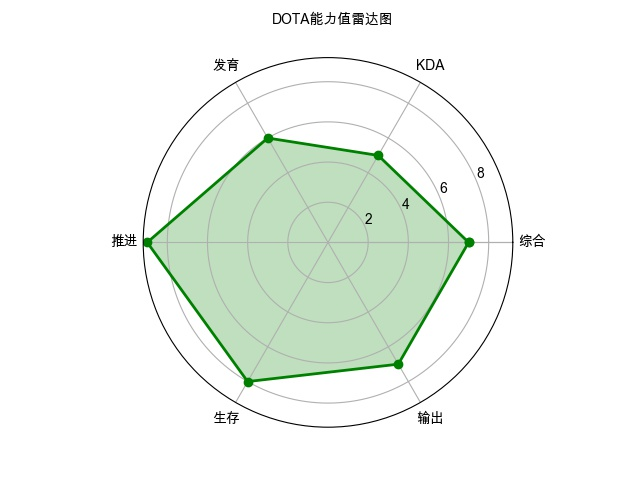
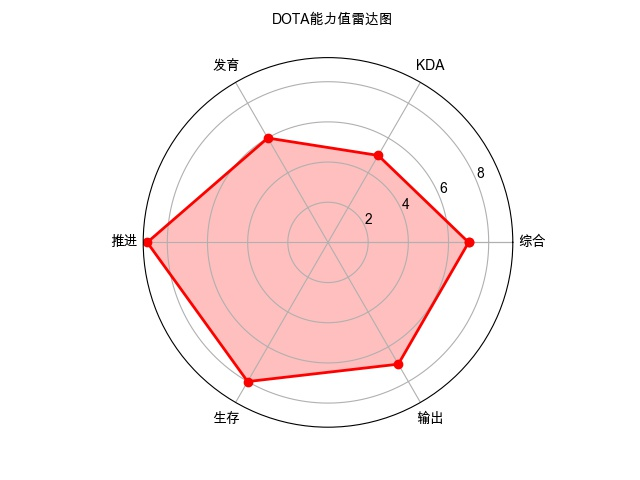
change color

Changed region(s): [[0.2188, 0.2812, 0.75, 0.8125]]

diff --git a/PythonExam/Chapter9/e19.1DrawDotaRadar.py b/PythonExam/Chapter9/e19.1DrawDotaRadar.py
@@ -14,8 +14,8 @@ data = np.concatenate((data, [data[0]]))
 angles = np.concatenate((angles, [angles[0]]))
 fig = plt.figure(facecolor='white')
 plt.subplot(111, polar=True)
-plt.plot(angles, data, 'bo-', color='g', linewidth=2)
-plt.fill(angles, data, facecolor='g', alpha=0.25)
+plt.plot(angles, data, 'bo-', color='r', linewidth=2)
+plt.fill(angles, data, facecolor='r', alpha=0.25)
 plt.thetagrids(angles*180/np.pi, labels)
 plt.figtext(0.52, 0.95, 'DOTA能力值雷达图', ha='center')
 plt.grid(True)
